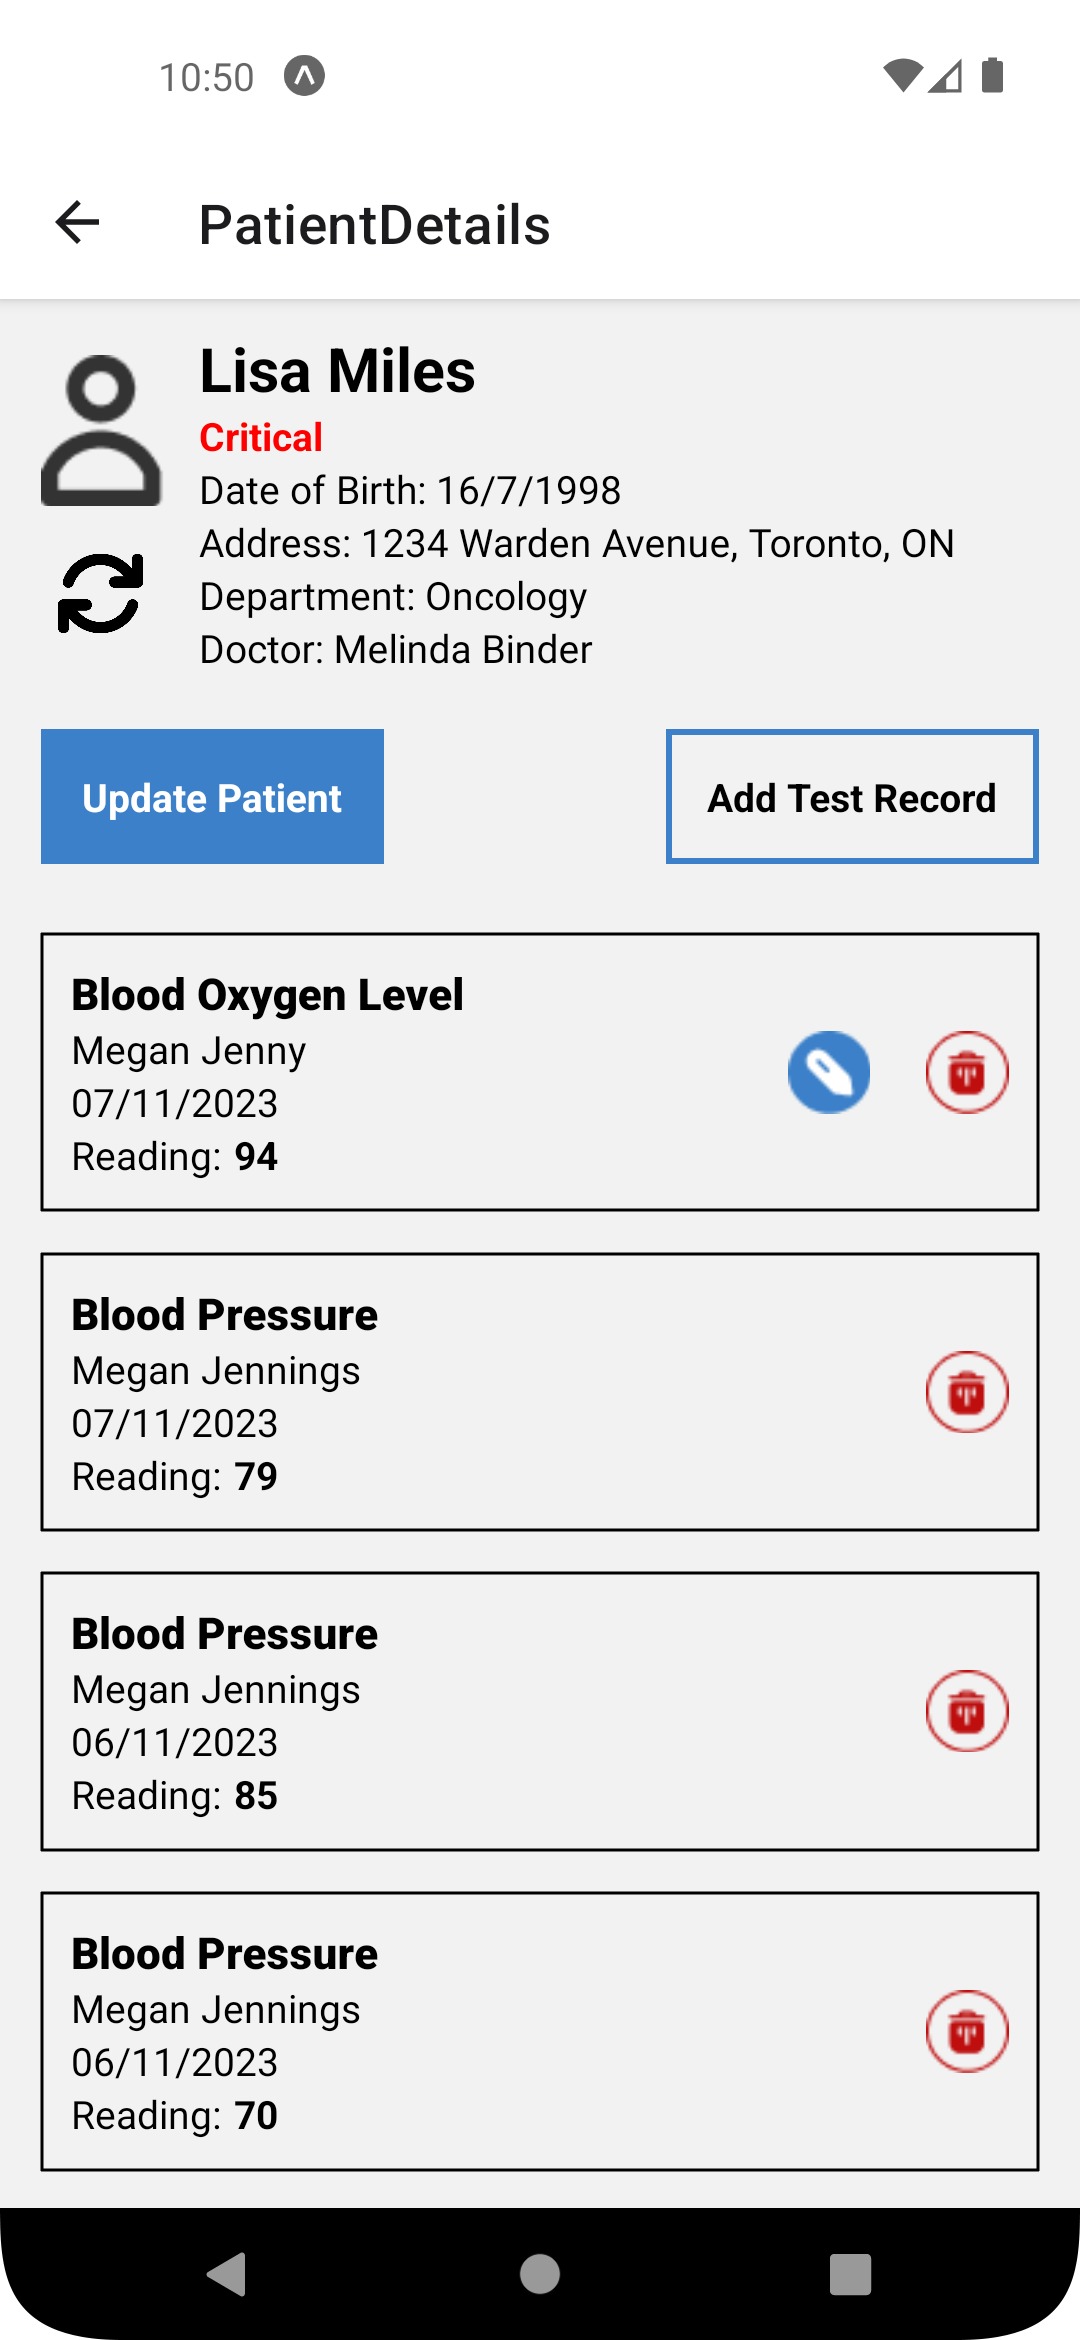
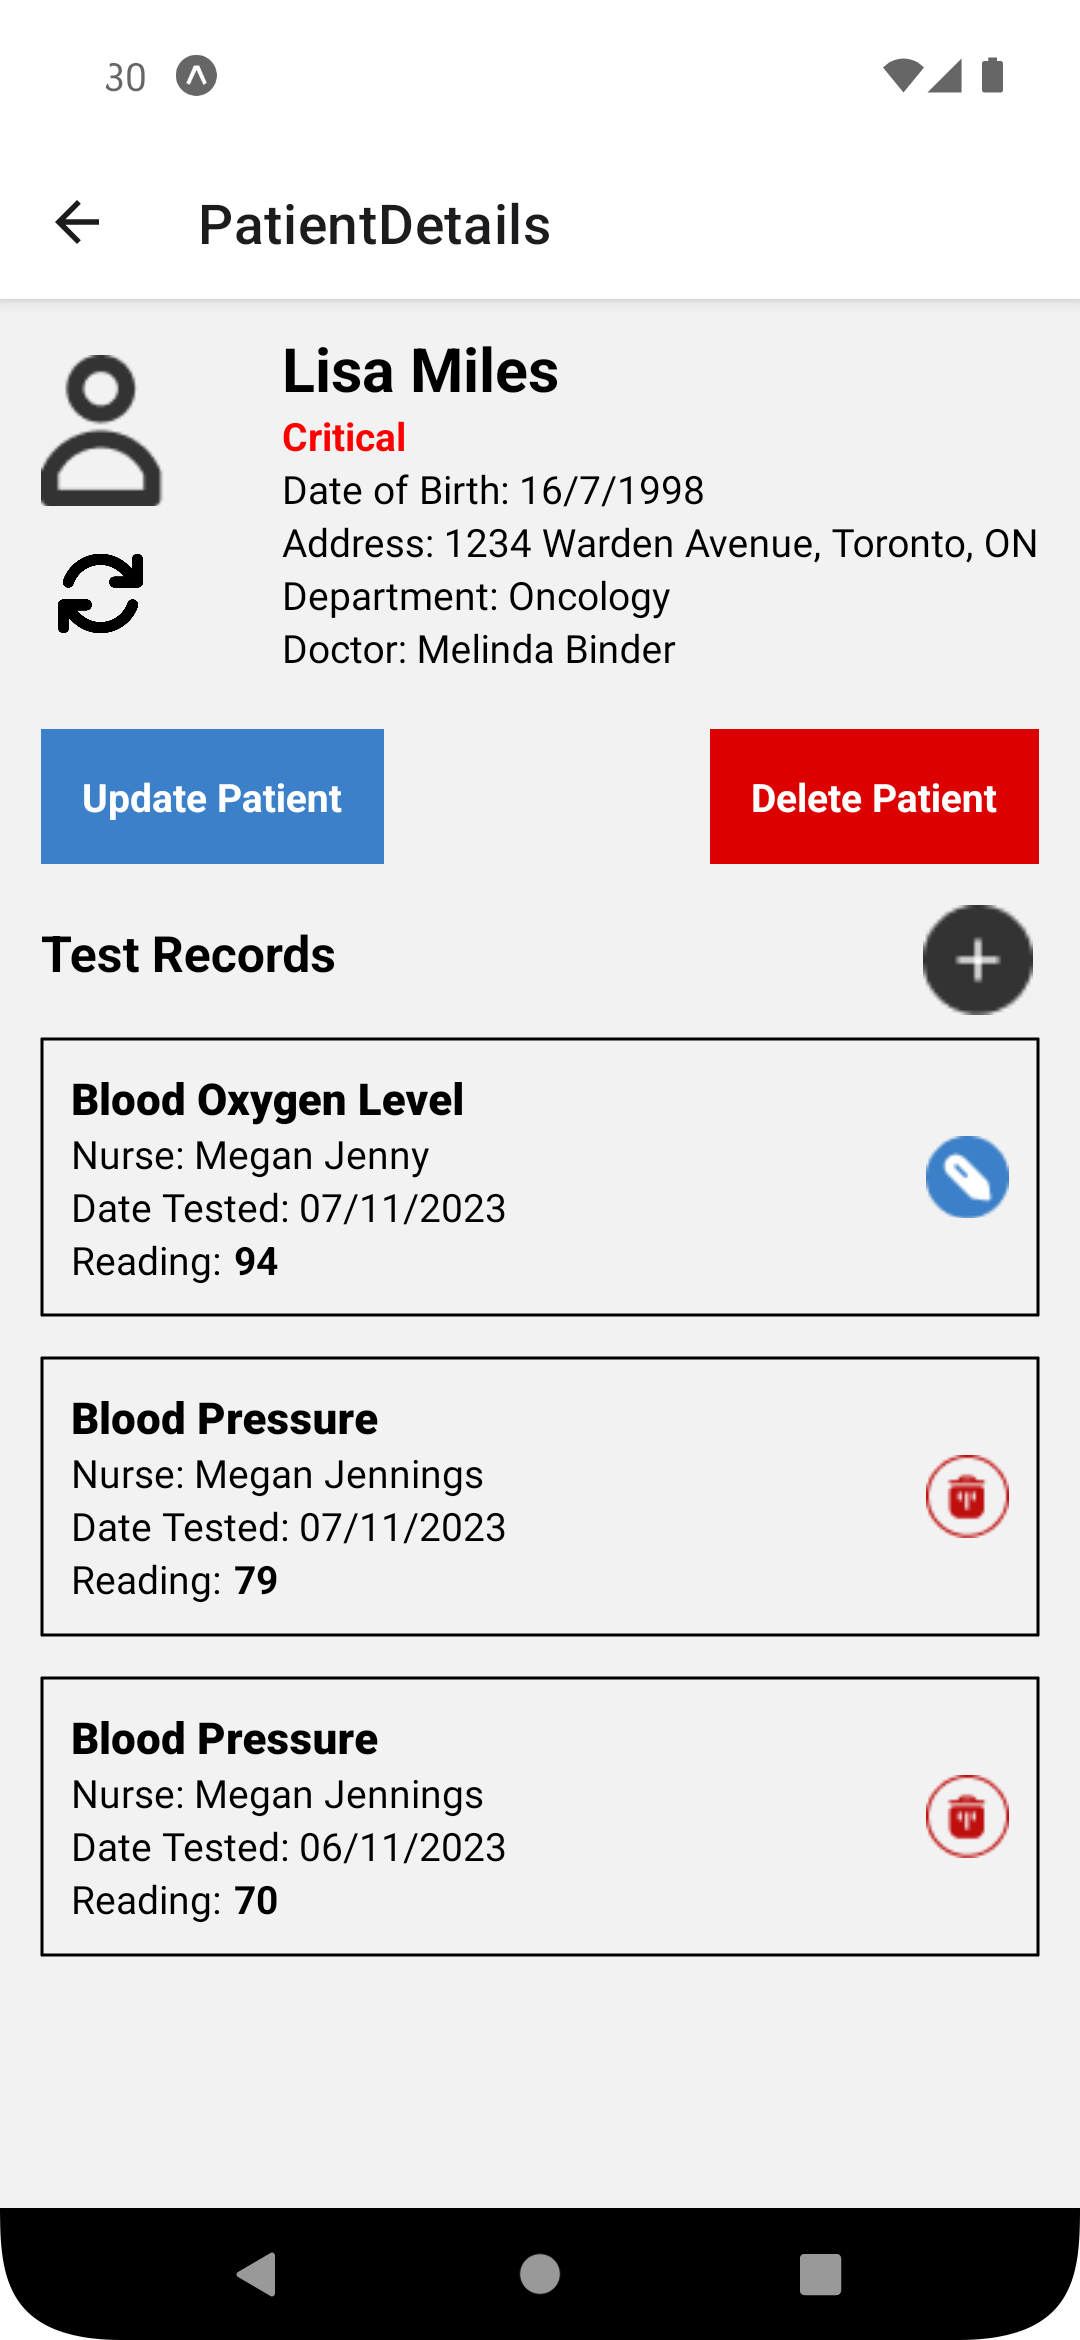
API url is chnaged to Deploy API in Render.com

diff --git a/screens/PatientDetails.js b/screens/PatientDetails.js
@@ -18,11 +18,11 @@ export default function PatientDetails({ route, navigation }) {
     const [address, setAddress] = React.useState('');
     const [department, setDepartment] = React.useState('');
     const [doctor, setDoctor] = React.useState('');
-    const [patientTests, setPatientTests] = React.useState('')
-    const [infoMsgSize, setInfoMsgSize] = React.useState(0)
+    const [patientTests, setPatientTests] = React.useState('');
+    const [infoMsgSize, setInfoMsgSize] = React.useState(0);
 
     // API server URL
-    const apiUrl = "http://10.0.0.237:3000"
+    const apiUrl = "https://nodejs-healthcare-api-server.onrender.com"
 
     // Get patient id from navigation
     var patient_id = route.params.patient_id;
@@ -67,7 +67,7 @@ export default function PatientDetails({ route, navigation }) {
         getAllPatientDetailsFromAPI();
         getAllTestsForPatientFromAPI();
         listAllTestsForPatient();
-        setInfoMsgSize(0)
+        setInfoMsgSize(0);
     };
 
     // Delete patient
@@ -156,8 +156,7 @@ export default function PatientDetails({ route, navigation }) {
 
     return (
         <SafeAreaView style={styles.container}>
-            <ScrollView>
-            <View style={styles.wrapper}>
+            <ScrollView style = {styles.wrapper}>
                 {/* Patient details*/}
                 <View style={styles.patientProfile}>
                     <View style={{flex: 1, flexDirection: "column"}}>
@@ -197,7 +196,7 @@ export default function PatientDetails({ route, navigation }) {
                     <Text style={{fontWeight: "bold", fontSize: 18, marginTop: 0}}>Test Records</Text>
                     <TouchableOpacity
                         onPress={() => navigation.navigate('AddTestRecord', {patient_id: patient_id})}
-                        style={{left: 213}}>
+                        style={{left: 180}}>
                         <Image
                             source={require('../img/add.png')}
                             style={[{width: 40}, {height: 40}, {marginTop: -5}]} />
@@ -210,7 +209,6 @@ export default function PatientDetails({ route, navigation }) {
                 {/* List of Tests */}
                 {patientTestsList}
 
-            </View>
             </ScrollView>
             
         </SafeAreaView>
@@ -220,19 +218,21 @@ export default function PatientDetails({ route, navigation }) {
 // Style definitions
 const styles = StyleSheet.create({
     container: {
-        alignItems: "left"
+        alignItems: "left",
+        flex: 1
     },
     wrapper: {
         paddingBottom: 10,
         paddingTop: 10,
-        paddingLeft: 15,
-        paddingRight: 15,
+        paddingLeft: 30,
+        paddingRight: 30
     },
     patientProfile:{
         flexDirection:"row",
         justifyContent: "flex-start",
         alignItems:'flex-start',
         marginBottom:20,
+        width: 330
     },
     medicalHistoryWrapper:{
         flexDirection:'row',
@@ -243,6 +243,7 @@ const styles = StyleSheet.create({
         marginBottom:15,
         borderRadius: 0,
         borderColor: 'black',
+        width: 330
     },
     medicalHistoryTest:{
         flexDirection:'row',

diff --git a/screens/UpdateTestRecord.js b/screens/UpdateTestRecord.js
@@ -19,7 +19,7 @@ export default function UpdateTestRecord({route, navigation}) {
     const [readings, setreadings] = React.useState("");
 
     // API server URL
-    const apiUrl = "http://192.168.17.3:3000"
+    const apiUrl = "https://nodejs-healthcare-api-server.onrender.com"
 
     // Get patient id from navigation
     var patient_id = route.params.patient_id;

diff --git a/screens/UpdatePatient.js b/screens/UpdatePatient.js
@@ -22,7 +22,7 @@ export default function UpdatePatient({route, navigation}) {
     const [status, setStatus] = React.useState('');
 
     // API server URL
-    const apiUrl = "http://192.168.17.3:3000"
+    const apiUrl = "https://nodejs-healthcare-api-server.onrender.com"
 
     // Get patient id from navigation
     var patient_id = route.params.patient_id;

diff --git a/screens/AddTestRecord.js b/screens/AddTestRecord.js
@@ -27,7 +27,7 @@ export default function AddTestRecord({ route, navigation }) {
   const [readings, setReadings] = React.useState("");
 
   // API server URL
-  const apiUrl = "http://192.168.17.3:3000"
+  const apiUrl = "https://nodejs-healthcare-api-server.onrender.com"
 
   // Get patient id from navigation
   var patient_id = route.params.patient_id;

diff --git a/screens/Patients.js b/screens/Patients.js
@@ -16,7 +16,7 @@ export default function Patients({route, navigation}) {
     const [patients, setPatients] = React.useState('');
 
     // API server URL
-    const apiUrl = "http://10.0.0.237:3000"
+    const apiUrl = "https://nodejs-healthcare-api-server.onrender.com"
 
     // Get all patients from API
     const getAllPatientsFromAPI = async() => {

diff --git a/screens/AddPatient.js b/screens/AddPatient.js
@@ -22,7 +22,7 @@ export default function AddPatient({navigation}) {
     const [doctor, setDoctor] = React.useState('');
 
     // API server URL
-    const apiUrl = "http://192.168.17.3:3000"
+    const apiUrl = "https://nodejs-healthcare-api-server.onrender.com"
   
     // Add button function
     function onClickAddButton() {

diff --git a/App.js b/App.js
@@ -1,7 +1,9 @@
 /**
- * @file App.js -> React Native Healthcare App
- * @author Emre Deniz
- * @author Muindo Gituku
+ * @file App.js
+ * @author Emre Deniz (301371047)
+ * @author Muindo Gituku (301372521)
+ * @date Nov 27, 2023
+ * @description React Native Project
  */
 
 import * as React from 'react';
